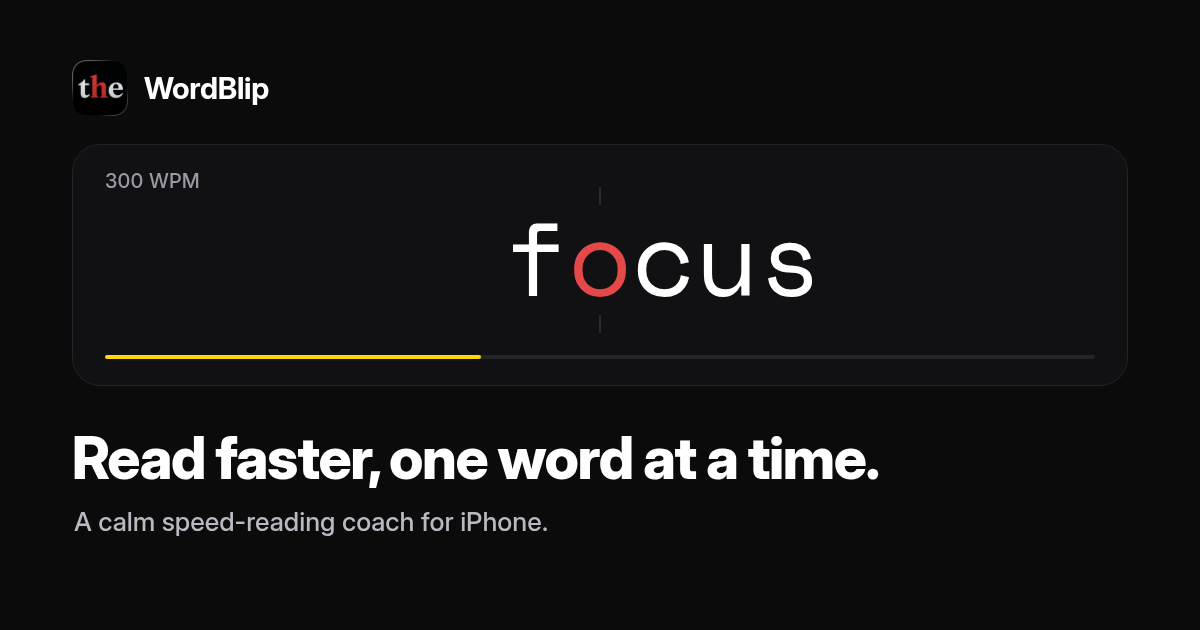
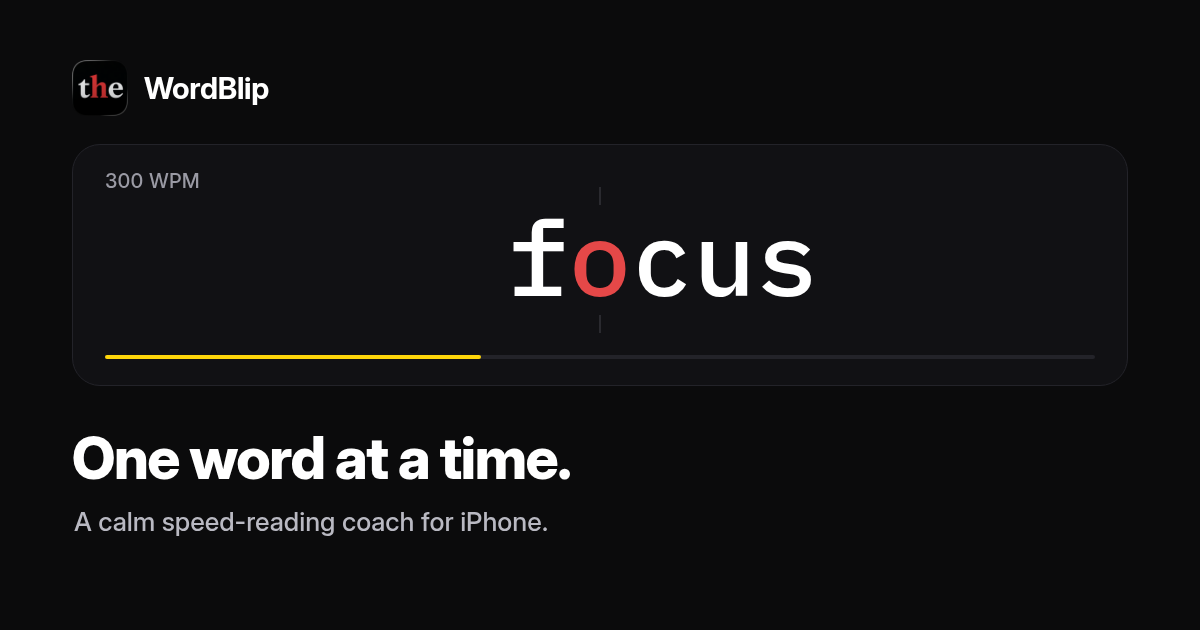
Landing page: remove speed claims from headline and share card (#2)
* WB-43 Remove speed claims from the landing page and share image

* WB-43 Versioned share image URL and accurate image alt text

* WB-43 Share image alt text per design

---------

Changed region(s): [[0.0617, 0.6937, 0.74, 0.7841], [0.4317, 0.3317, 0.6783, 0.4825]]

diff --git a/index.html b/index.html
@@ -13,19 +13,19 @@
 
     <meta property="og:type" content="website" />
     <meta property="og:site_name" content="WordBlip" />
-    <meta property="og:title" content="WordBlip: read faster, one word at a time" />
+    <meta property="og:title" content="WordBlip: speed-reading trainer, one word at a time" />
     <meta property="og:description" content="A calm speed-reading coach for iPhone. Short daily sessions, one word at a time." />
     <meta property="og:url" content="https://quarezz.github.io/wordblip-pages/" />
-    <meta property="og:image" content="https://quarezz.github.io/wordblip-pages/og-image.png" />
+    <meta property="og:image" content="https://quarezz.github.io/wordblip-pages/og-image.png?v=2" />
     <meta property="og:image:type" content="image/png" />
     <meta property="og:image:width" content="1200" />
     <meta property="og:image:height" content="630" />
-    <meta property="og:image:alt" content="The word focus shown in the WordBlip reader with its middle letter highlighted in red, above the line: Read faster, one word at a time." />
+    <meta property="og:image:alt" content="The word focus in the WordBlip reader, with its focus letter o highlighted in red, above the line: One word at a time." />
     <meta name="twitter:card" content="summary_large_image" />
-    <meta name="twitter:title" content="WordBlip: read faster, one word at a time" />
+    <meta name="twitter:title" content="WordBlip: speed-reading trainer, one word at a time" />
     <meta name="twitter:description" content="A calm speed-reading coach for iPhone. Short daily sessions, one word at a time." />
-    <meta name="twitter:image" content="https://quarezz.github.io/wordblip-pages/og-image.png" />
-    <meta name="twitter:image:alt" content="The word focus shown in the WordBlip reader with its middle letter highlighted in red, above the line: Read faster, one word at a time." />
+    <meta name="twitter:image" content="https://quarezz.github.io/wordblip-pages/og-image.png?v=2" />
+    <meta name="twitter:image:alt" content="The word focus in the WordBlip reader, with its focus letter o highlighted in red, above the line: One word at a time." />
     <style>
       :root {
         color-scheme: dark;
@@ -134,11 +134,12 @@
   <body>
     <main>
       <section class="card">
-        <h1>Read faster, one word at a time.</h1>
+        <h1>One word at a time.</h1>
         <p>
           WordBlip is a calm RSVP speed-reading trainer for iPhone. Words appear one
-          at a time with a highlighted focus letter, so your eyes stay still and your
-          pace can grow in short daily sessions.
+          at a time with a highlighted focus letter, so your eyes stay still. Practice
+          at a pace you choose in short daily sessions, then answer a few questions
+          that check what you understood.
         </p>
         <a class="store" href="https://apps.apple.com/us/app/wordblip/id6757840712">
           <img src="./app-store-badge.svg" width="144" height="48" alt="Download on the App Store" />
